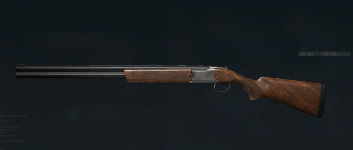
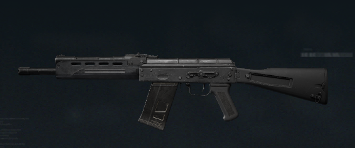
falta el completo el nombre de las armas y el about us

diff --git a/utils/equipament.js b/utils/equipament.js
@@ -48,7 +48,6 @@ export const MAPAS = [
         image: '../img/maps/map8.png',
     },
 ]
-
 export const CHALECOS = [
     {
         name: 'Heavy Asault',
@@ -157,7 +156,7 @@ export const CHALECOS = [
     },
 
 ]
-export const AGENTES =[
+export const AGENTES = [
     {
         name: 'D-WOLF',
         image: '../img/agents/agent1.jpg'
@@ -199,6 +198,7 @@ export const AGENTES =[
         image: '../img/agents/agent10.jpg'
     },
 ]
+
 export const CASCOS = [
     {
         name: 'GN Heavy NV',
@@ -309,5 +309,203 @@ export const CASCOS = [
         name: 'Steel',
         calidad: CALIDADES[0],
         image: '../img/helmets/casco19.png',
+    },
+]
+export const ARMAS = [
+    {
+        name: 'ARMA1',
+        image: '../img/weapons/wp1.png'
+    },
+    {
+        name: 'ARMA1',
+        image: '../img/weapons/wp2.png'
+    },
+    {
+        name: 'ARMA1',
+        image: '../img/weapons/wp3.png'
+    },
+    {
+        name: 'ARMA1',
+        image: '../img/weapons/wp4.png'
+    },
+    {
+        name: 'ARMA1',
+        image: '../img/weapons/wp5.png'
+    },
+    {
+        name: 'ARMA1',
+        image: '../img/weapons/wp6.png'
+    },
+    {
+        name: 'ARMA1',
+        image: '../img/weapons/wp7.png'
+    },
+    {
+        name: 'ARMA1',
+        image: '../img/weapons/wp8.png'
+    },
+    {
+        name: 'ARMA1',
+        image: '../img/weapons/wp9.png'
+    },
+    {
+        name: 'ARMA1',
+        image: '../img/weapons/wp10.png'
+    },
+    {
+        name: 'ARMA1',
+        image: '../img/weapons/wp11.png'
+    },
+    {
+        name: 'ARMA1',
+        image: '../img/weapons/wp12.png'
+    },
+    {
+        name: 'ARMA1',
+        image: '../img/weapons/wp13.png'
+    },
+    {
+        name: 'ARMA1',
+        image: '../img/weapons/wp14.png'
+    },
+    {
+        name: 'ARMA1',
+        image: '../img/weapons/wp15.png'
+    },
+    {
+        name: 'ARMA1',
+        image: '../img/weapons/wp16.png'
+    },
+    {
+        name: 'ARMA1',
+        image: '../img/weapons/wp17.png'
+    },
+    {
+        name: 'ARMA1',
+        image: '../img/weapons/wp18.png'
+    },
+    {
+        name: 'ARMA1',
+        image: '../img/weapons/wp19.png'
+    },
+    {
+        name: 'ARMA1',
+        image: '../img/weapons/wp20.png'
+    },
+    {
+        name: 'ARMA1',
+        image: '../img/weapons/wp21.png'
+    },
+    {
+        name: 'ARMA1',
+        image: '../img/weapons/wp22.png'
+    },
+    {
+        name: 'ARMA1',
+        image: '../img/weapons/wp23.png'
+    },
+    {
+        name: 'ARMA1',
+        image: '../img/weapons/wp24.png'
+    },
+    {
+        name: 'ARMA1',
+        image: '../img/weapons/wp25.png'
+    },
+    {
+        name: 'ARMA1',
+        image: '../img/weapons/wp27.png'
+    },
+    {
+        name: 'ARMA1',
+        image: '../img/weapons/wp28.png'
+    },
+    {
+        name: 'ARMA1',
+        image: '../img/weapons/wp29.png'
+    },
+    {
+        name: 'ARMA1',
+        image: '../img/weapons/wp30.png'
+    },
+    {
+        name: 'ARMA1',
+        image: '../img/weapons/wp31.png'
+    },
+    {
+        name: 'ARMA1',
+        image: '../img/weapons/wp32.png'
+    },
+    {
+        name: 'ARMA1',
+        image: '../img/weapons/wp33.png'
+    },
+    {
+        name: 'ARMA1',
+        image: '../img/weapons/wp34.png'
+    },
+    {
+        name: 'ARMA1',
+        image: '../img/weapons/wp35.png'
+    },
+    {
+        name: 'ARMA1',
+        image: '../img/weapons/wp36.png'
+    },
+    {
+        name: 'ARMA1',
+        image: '../img/weapons/wp37.png'
+    },
+    {
+        name: 'ARMA1',
+        image: '../img/weapons/wp38.png'
+    },
+    {
+        name: 'ARMA1',
+        image: '../img/weapons/wp39.png'
+    },
+    {
+        name: 'ARMA1',
+        image: '../img/weapons/wp40.png'
+    },
+    {
+        name: 'ARMA1',
+        image: '../img/weapons/wp41.png'
+    },
+    {
+        name: 'ARMA1',
+        image: '../img/weapons/wp42.png'
+    },
+    {
+        name: 'ARMA1',
+        image: '../img/weapons/wp43.png'
+    },
+    {
+        name: 'ARMA1',
+        image: '../img/weapons/wp44.png'
+    },
+    {
+        name: 'ARMA1',
+        image: '../img/weapons/wp45.png'
+    },
+    {
+        name: 'ARMA1',
+        image: '../img/weapons/wp46.png'
+    },
+    {
+        name: 'ARMA1',
+        image: '../img/weapons/wp47.png'
+    },
+    {
+        name: 'ARMA1',
+        image: '../img/weapons/wp48.png'
+    },
+    {
+        name: 'ARMA1',
+        image: '../img/weapons/wp49.png'
+    },
+    {
+        name: 'ARMA1',
+        image: '../img/weapons/wp50.png'
     },
 ]

diff --git a/utils/utils.js b/utils/utils.js
@@ -1,4 +1,4 @@
-import { CASCOS, MAPAS, CHALECOS, AGENTES } from "./equipament.js";
+import { CASCOS, MAPAS, CHALECOS, AGENTES, ARMAS } from "./equipament.js";
 import * as  LS from "./recuperarLocalStorage.js"
 
 function recuperarPersistenciaInfo() {
@@ -187,6 +187,40 @@ function agenteAleatorio() {
   }, 6000);
 
 }
+function armaAleatorio() {
+  const imgArma = document.querySelector('#containerArma .shuffleElementSingle img')
+  const nameArma = document.querySelector('#containerArma .shuffleContainerSingle .shuffleElementName');
+
+  let intervalo;
+  let armaSelected;
+  intervalo = setInterval(() => {
+    imgArma.style.transform = "rotateX(90deg)";
+    setTimeout(() => {
+      const randomIndex = Math.floor(Math.random() * ARMAS.length);
+      imgArma.src = ARMAS[randomIndex].image;
+      nameArma.textContent = ARMAS[randomIndex].name;
+      imgArma.style.transform = "rotateX(0deg)";
+    }, 100);
+  }, 150);
+
+  // paramos a los 8 segundos
+  setTimeout(() => {
+    clearInterval(intervalo);
+    const finalIndex = Math.floor(Math.random() * ARMAS.length);
+    imgArma.style.transform = "rotateX(90deg)";
+    setTimeout(() => {
+      imgArma.src = ARMAS[finalIndex].image;
+      nameArma.textContent = ARMAS[finalIndex].name;
+      imgArma.style.transform = "rotateX(0deg)";
+      armaSelected = {
+        name: ARMAS[finalIndex].name,
+        image: ARMAS[finalIndex].image
+      }
+      almacenarItem("arma", armaSelected);
+    }, 100);
+  }, 6000);
+
+}
 
 function almacenarItem(tipoObjeto, objeto) {
   localStorage.setItem(tipoObjeto, JSON.stringify(objeto))
@@ -208,6 +242,9 @@ document.querySelector('#containerCasco .shuffleButtonSingle').addEventListener(
 //agente
 document.querySelector('#containerAgente .shuffleButtonSingle').addEventListener('click', () => {
   agenteAleatorio();
+})
+document.querySelector('#containerArma .shuffleButtonSingle').addEventListener('click', () => {
+  armaAleatorio();
 })
 
 //funciones directas

diff --git a/utils/recuperarLocalStorage.js b/utils/recuperarLocalStorage.js
@@ -1,4 +1,4 @@
-import { CASCOS, CHALECOS, MAPAS, AGENTES } from "./equipament.js";
+import { CASCOS, CHALECOS, MAPAS, AGENTES, ARMAS } from "./equipament.js";
 
 // Random
 export function randomCompleto() {
@@ -25,7 +25,12 @@ export function randomAgente() {
 }
 
 export function randomArma() {
+  const imgArma = document.querySelector('#containerArma .shuffleElementSingle img')
+  const nameArma = document.querySelector('#containerArma .shuffleContainerSingle .shuffleElementName');
+  let numRandom = Math.floor(Math.random() * ARMAS.length);
 
+  imgArma.src = ARMAS[numRandom].image;
+  nameArma.innerHTML = ARMAS[numRandom].name
 }
 
 export function randomCasco() {
@@ -71,7 +76,11 @@ export function injectarAgente() {
 }
 
 export function injectarArma() {
-
+  const imgArma = document.querySelector('#containerArma .shuffleElementSingle img')
+  const nameArma = document.querySelector('#containerArma .shuffleContainerSingle .shuffleElementName');
+  let arma = JSON.parse(localStorage.getItem("arma"))
+  imgArma.src = arma.image;
+  nameArma.innerHTML = arma.name
 }
 
 export function injectarCasco() {

diff --git a/index.html b/index.html
@@ -72,7 +72,7 @@
                 En este apartado se sorteará el mapa a jugar
             </div>
             <div class="shuffleContainerSingle">
-                <div class="shuffleBoxSingle">
+                <div class="shuffleBoxSingleMapa">
                     <div class="shuffleElementSingle">
                         <img src="" alt="" class="map">
                     </div>
@@ -100,6 +100,15 @@
             <div class="descripcionContainer">
                 En este apartado se sorteará el arma a jugar
             </div>
+            <div class="shuffleContainerSingle">
+                <div class="shuffleBoxSingleArma">
+                    <div class="shuffleElementSingle">
+                        <img src="" alt="" class="map">
+                    </div>
+                </div>
+                <div class="shuffleElementName"></div>
+            </div>
+            <button class="shuffleButtonSingle">SHUFFLE</button>
         </div>
         <div id="containerCasco" class="container hidden">
             <div class="descripcionContainer">

diff --git a/css/style.css b/css/style.css
@@ -292,7 +292,28 @@
   width: 100%;
   height: 100%;
 }
-
+.shuffleBoxSingleArma {
+  height: 20vh;
+  background-image: url("../img/fondoShuffle.jpg");
+  width: 21vw;
+  margin-left: auto;
+  margin-right: auto;
+  justify-content: center;
+  align-items: center;
+  display: flex;
+  box-shadow: 4px 6px 0px 0px rgba(0, 0, 0, 0.575);
+}
+.shuffleBoxSingleMapa {
+  height: 20vh;
+  background-image: url("../img/fondoShuffle.jpg");
+  width: 21vw;
+  margin-left: auto;
+  margin-right: auto;
+  justify-content: center;
+  align-items: center;
+  display: flex;
+  box-shadow: 4px 6px 0px 0px rgba(0, 0, 0, 0.575);
+}
 /*FIN ABOUT CONTAINER*/
 
 /*FIN CONTENT*/
